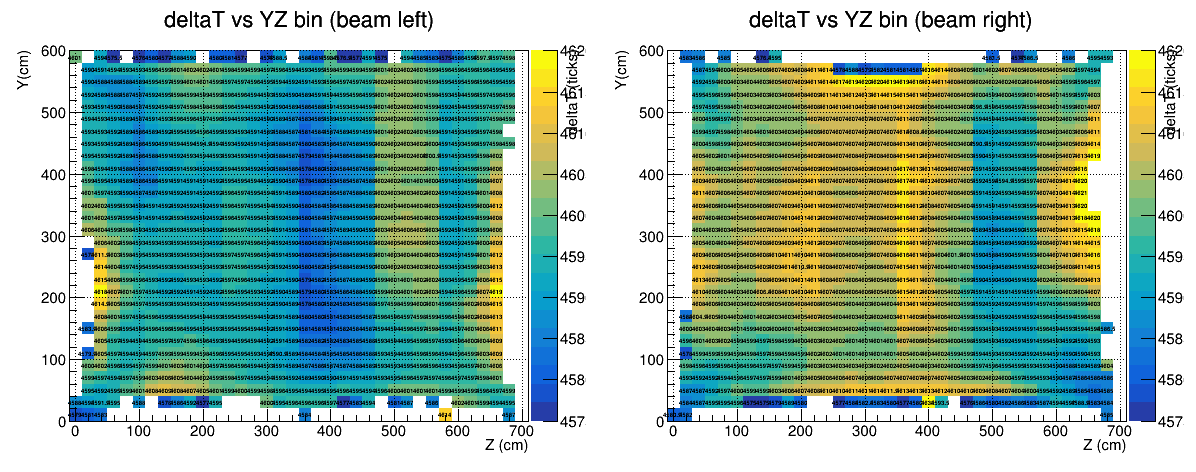
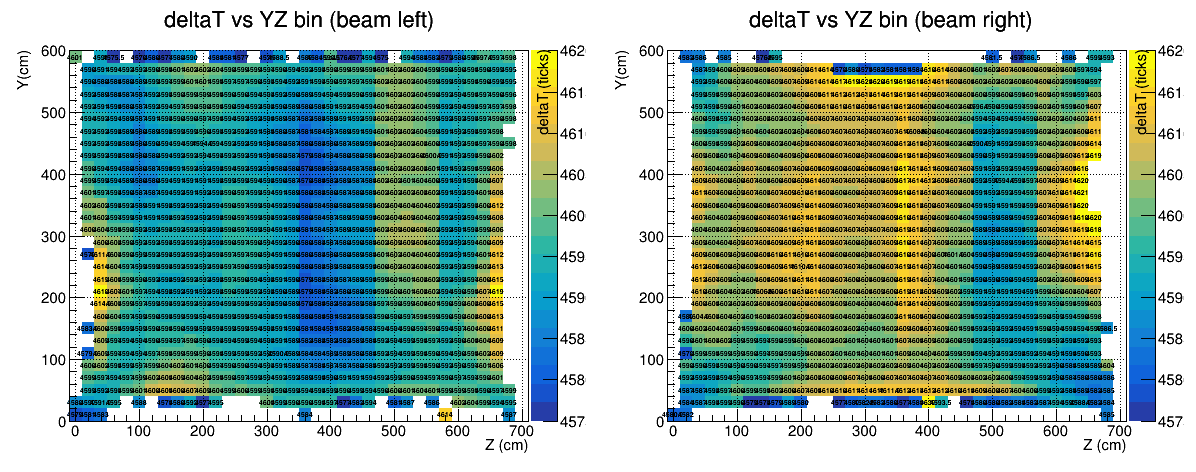
update plots

Changed region(s): [[0.0619, 0.1186, 0.495, 0.8898], [0.5569, 0.1186, 0.99, 0.8898]]

diff --git a/scripts/frame_distortion/writeup/get_2D_with_bdry.C b/scripts/frame_distortion/writeup/get_2D_with_bdry.C
@@ -22,16 +22,16 @@ void get_2D_with_bdry()
     TCanvas *c1 = new TCanvas("c1", "c1", 1200, 500);
     c1->Divide(2,1);
     c1->cd(1);
-    deltaT_YZ_h2->SetMarkerSize(0.7);
+    deltaT_YZ_h2->SetMarkerSize(0.8);
     deltaT_YZ_h2->Draw("COLZ TEXT");
-    deltaT_YZ_h2->GetZaxis()->SetTitleOffset(0.5);
+    deltaT_YZ_h2->GetZaxis()->SetTitleOffset(0);
     deltaT_YZ_h2->GetZaxis()->SetRangeUser(4575,4620);
 
     c1->cd(2);
-    deltaT_YZ_h2_neg->SetMarkerSize(0.7);
+    deltaT_YZ_h2_neg->SetMarkerSize(0.8);
     deltaT_YZ_h2_neg->Draw("COLZ TEXT");
     deltaT_YZ_h2_neg->GetZaxis()->SetRangeUser(4575,4620);
-    deltaT_YZ_h2_neg->GetZaxis()->SetTitleOffset(0.5);
+    deltaT_YZ_h2_neg->GetZaxis()->SetTitleOffset(0);
     c1->SaveAs("p03_2D_dT_med_full.png");
 
 }
